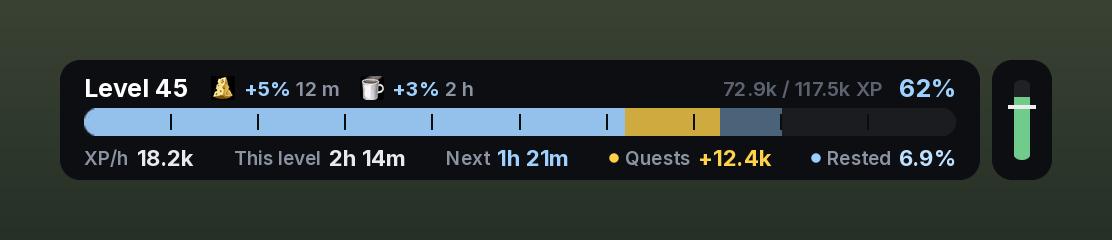
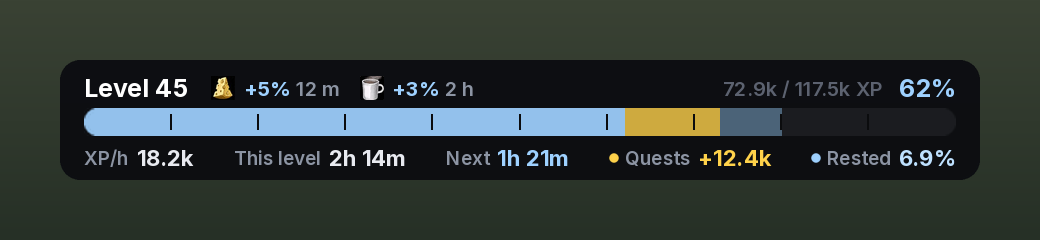
LevelETA 9.1: remove the activity bar and goal
The activity bar, the goal window, /lp goal and the activity tracking are gone.
The XP bar is centred at the top by default. New screenshots.

Claude-Session: https://claude.ai/code/session_01DXBRuJZEvaLALH5p4FBrk6

diff --git a/README.md b/README.md
@@ -5,7 +5,7 @@
 - **When you hit your next tenth level and level 60**, as real dates like *Friday 18:30*
 - **What level you will be when you stop playing today**
 - **An XP bar and XP tracker**: XP per hour, time on this level, time to next level, quest XP, rested XP and XP buffs
-- **Optional extras:** your level times and an activity bar with a goal
+- **Optional extra:** a list of how long your last levels took
 
 It learns how fast you level and knows when you play. **Every part can be turned on or off**, so you can use only what you want, for example just the XP bar or just the level times. Works on its own, and uses ForeverXP Bar data if you have it.
 
@@ -35,11 +35,7 @@ Turn on **Show level times** in the settings to see how long each of your last l
 
 LevelETA comes with an XP bar and XP tracker in the same style. It shows your XP, completed quests you have not turned in (gold) and your rested XP (light blue), with XP per hour, time spent on this level, time to next level, ready quest XP and rested XP in percent below the bar, all in a slim bar that takes little space. Active XP buffs (food and the Cozy Sleeping Bag) are shown with the time they have left. When a buff is about to run out and when it has run out, a small warning pops up on screen so you know to renew it. You choose how early: 20 seconds before for food and 5 minutes before for the sleeping bag by default. You can also turn the warnings off. Hover the bar for kills and quests to level and stats for this session. The bar is shown at the top of the screen by default and replaces Blizzard's own XP bar. You can move it, turn it off, or show Blizzard's bar again in the settings.
 
-![LevelETA XP bar and activity bar](screenshots/xp-bar.png)
-
-Next to the XP bar is a small **activity bar**. It shows how much of the last 10 minutes you were active (fighting, earning XP or turning in quests). Hover it to see how your time on this level and this session splits into fighting and questing, travelling, flying, town, AFK and dead.
-
-Click the activity bar (or type `/lp goal`) to set a **goal**, for example level 60 before Monday 05:00. A white line on the activity bar then shows how active you need to be to make it, based on your pace and your play schedule. Without a goal, the line shows how active you normally are (the last couple of hours). The bar turns green when you are above the line and red when you are below. The tooltip shows when you will reach the goal at your current pace and how far ahead or behind you are.
+![LevelETA XP bar](screenshots/xp-bar.png)
 
 When you have an XP buff, it is also shown in the window under the three rows.
 
@@ -88,7 +84,7 @@ The settings are split into three tabs. Every part of LevelETA can be turned on 
 | Tab | Settings |
 |---|---|
 | **Window** | Show window, lock window, minimap button, size. Choose which rows to show: *level when I stop today*, *next tenth level*, *level 60* and *XP buffs*. Level times on or off, and how many levels the list shows (3 to 30) |
-| **XP bar** | Show XP bar, hide Blizzard's XP bar, bar size. Numbers under the bar, XP buffs on the bar and the activity bar, each on or off. Buff warnings on or off, and how early they come for food and the sleeping bag. Set goal |
+| **XP bar** | Show XP bar, hide Blizzard's XP bar, bar size. Numbers under the bar and XP buffs on the bar, each on or off. Buff warnings on or off, and how early they come for food and the sleeping bag |
 | **Play time** | Use my play times, play from, play until, an optional daily break. Quest buffer (how much ready quest XP to ignore, default 25 %) and rested XP while logged out |
 
 At the bottom: **Language** (English or Danish) and **Reset pace** (start measuring your current pace from scratch).
@@ -97,7 +93,6 @@ At the bottom: **Language** (English or Danish) and **Reset pace** (start measur
 
 - `/lp` or `/leveleta`: open settings
 - `/lp show`: show or hide the window
-- `/lp goal`: set a goal
 
 Left click the minimap button to show or hide the window.
 
@@ -107,7 +102,7 @@ Left click the minimap button to show or hide the window.
 
 LevelETA viser, hvilket level du er på, når du stopper med at spille i dag, hvornår du rammer dit næste tiende level, og hvornår du rammer level 60.
 
-Den virker helt alene og bruger `/played` og sine egne målinger. Er ForeverXP Bar installeret, bruger den også dens levelhistorik, så den er præcis fra første dag. Indstillinger: højreklik på minimap-knappen eller skriv `/lp`. Sproget kan skiftes til dansk i indstillingerne, og alle dele kan slås til og fra hver for sig. Under fanen Vindue kan du slå level-tider til og se, hvor lang tid dine sidste levels tog. Du vælger selv, hvor mange levels listen viser. Under fanen XP-bar kan du slå en XP-bar til i samme stil og skjule Blizzards egen. Ved siden af baren viser en lille bjælke, hvor aktiv du er. Klik på den for at sætte et mål, så viser en hvid streg, hvor aktiv du skal være for at nå det. Uden et mål viser stregen, hvor aktiv du plejer at være. Bjælken er grøn over stregen og rød under.
+Den virker helt alene og bruger `/played` og sine egne målinger. Er ForeverXP Bar installeret, bruger den også dens levelhistorik, så den er præcis fra første dag. Indstillinger: højreklik på minimap-knappen eller skriv `/lp`. Sproget kan skiftes til dansk i indstillingerne, og alle dele kan slås til og fra hver for sig. Under fanen Vindue kan du slå level-tider til og se, hvor lang tid dine sidste levels tog. Du vælger selv, hvor mange levels listen viser. Under fanen XP-bar kan du slå en XP-bar til i samme stil og skjule Blizzards egen.
 
 ---
 
